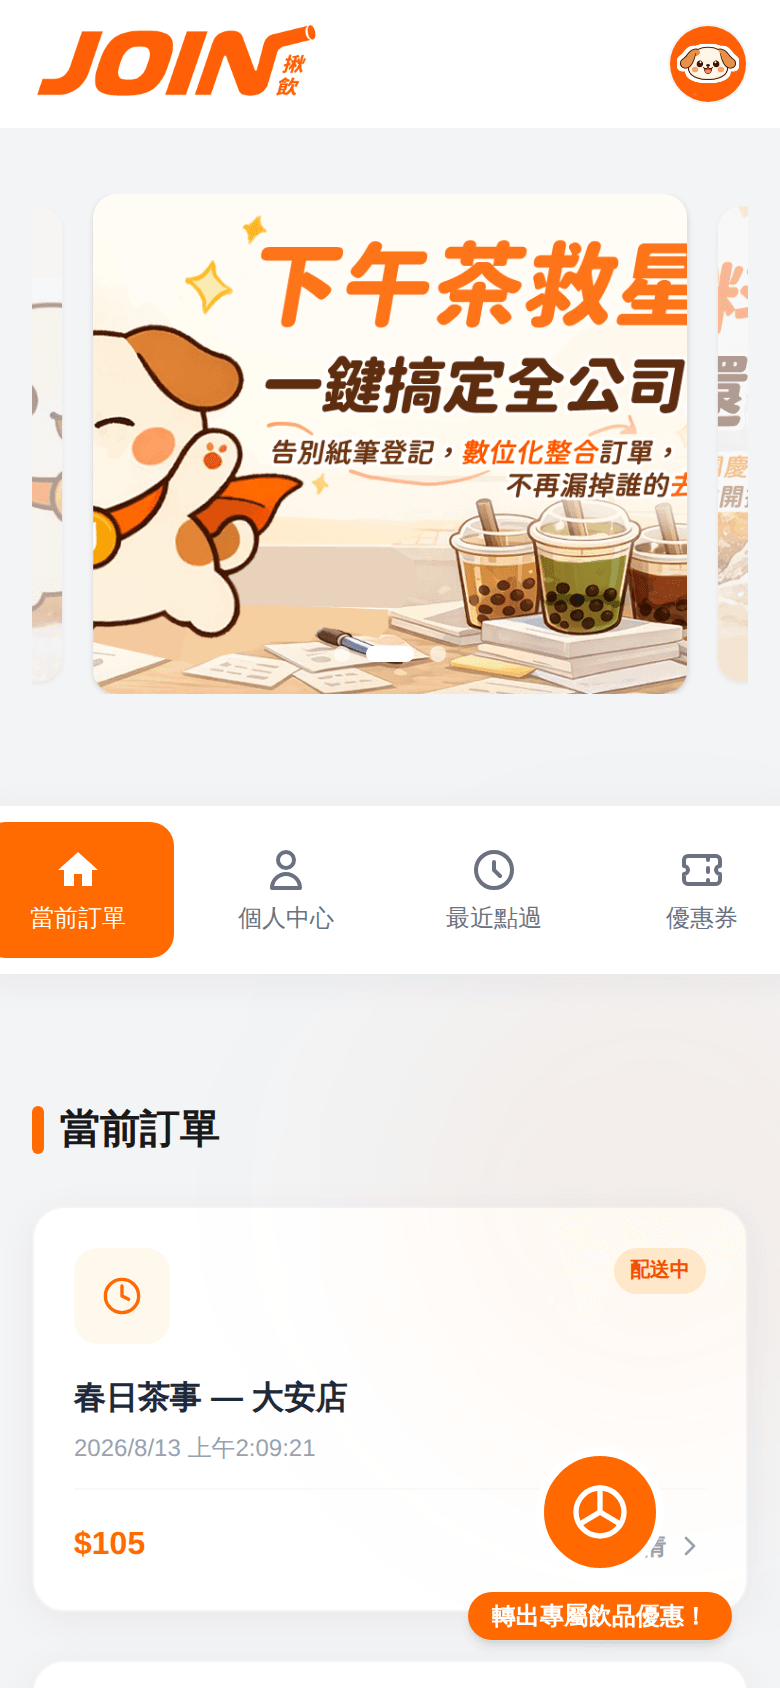
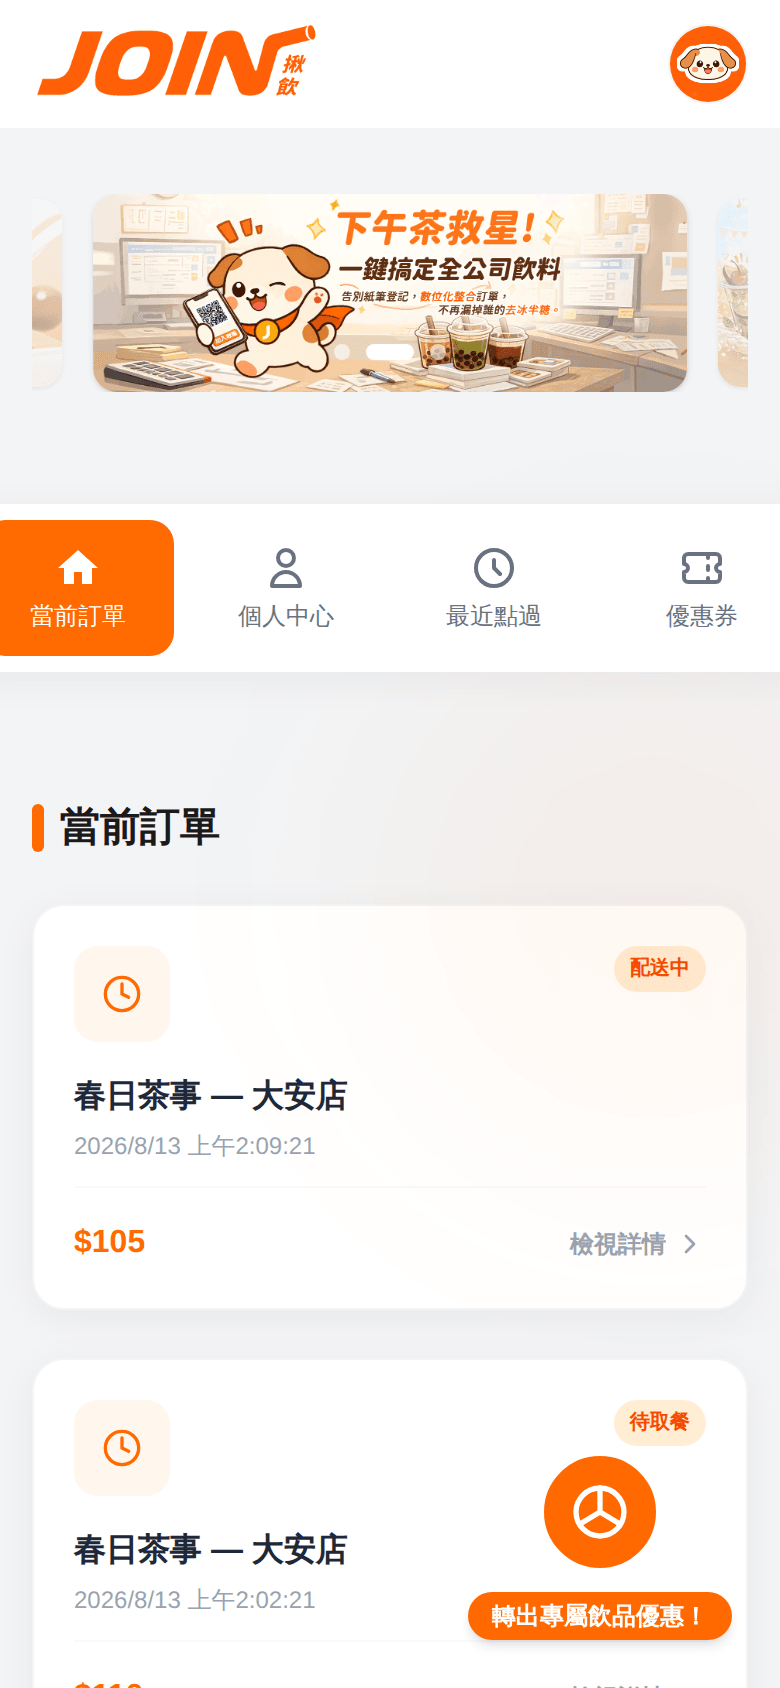
fix: 首頁輪播圖不再被容器裁掉
BN-*.jpg 是約 3:1 的橫幅，但容器高度寫死 h-[250px] md:h-[400px]，
bg-cover 為了蓋滿容器會把左右切掉。實測裁切量：

  手機 390：容器 1.19:1 → 左右裁 59~61%（標語整句看不到）
  桌機 1440：容器 2.68:1 → 左右裁 7~12%

改由長寬比決定高度（.slide-bg { aspect-ratio: 3/1 }），移除寫死的高度。
修補後裁切量降到 ≤4.1%，且只發生在上下——那是因為三張圖的長寬比本身
就不一致（2.88 / 2.90 / 3.05），單一容器比例無法同時完全吻合三張。

長寬比刻意寫在 CSS 而不是用 Tailwind 的 aspect-[3/1]：輪播圖是 JS 動態
注入的，CDN 版 Tailwind 不保證會替它產生規則（實測沒有，高度直接塌成 0）。

Claude-Session: https://claude.ai/code/session_01NowCPswupSUqPGgcQ77haN

diff --git a/frontend/Customer/index.html b/frontend/Customer/index.html
@@ -24,6 +24,15 @@
     }
   </style>
   <style data-purpose="layout-helpers">
+    /* 輪播圖橫幅（BN-*.jpg）長寬比約 3:1。
+       高度一旦寫死，bg-cover 就會把左右裁掉——實測手機裁掉 59~61%、桌機 7~12%，
+       標語整句被切。改由長寬比決定高度，圖就能完整顯示。
+       這條刻意寫在 CSS 而不是用 Tailwind 的 aspect-[3/1]：該工具類是動態注入的，
+       CDN 版 Tailwind 不一定會替它產生規則（實測就沒有，高度直接塌成 0）。 */
+    .slide-bg {
+      aspect-ratio: 3 / 1;
+    }
+
     .card-shadow {
       box-shadow: 0 4px 20px rgba(0, 0, 0, 0.05);
     }
@@ -198,9 +207,11 @@
       <div
         class="hidden w-[85%] opacity-40 opacity-100 scale-[0.95] scale-100 bg-white/60 w-2 hover:bg-white/80 bg-white w-6 bg-transparent">
       </div>
-      <div id="carousel-area" class="relative w-full h-[250px] md:h-[400px] group overflow-hidden cursor-pointer">
+      <!-- 高度不寫死：BN-*.jpg 是約 3:1 的橫幅，固定高度會讓 bg-cover 把左右裁掉
+           （實測手機裁掉 59~61%、桌機 7~12%）。改由 .slide-bg 的 aspect-[3/1] 決定高度。 -->
+      <div id="carousel-area" class="relative w-full group overflow-hidden cursor-pointer">
         <!-- 圖片軌道 (透過 JS 注入內容) -->
-        <div id="carousel-track" class="flex h-full w-full transition-transform duration-500 ease-out"></div>
+        <div id="carousel-track" class="flex w-full transition-transform duration-500 ease-out"></div>
 
         <!-- 左導覽按鈕 (電腦版懸浮顯示) -->
         <button id="prev-btn"
@@ -1551,8 +1562,8 @@
       function initCarousel() {
         // 渲染圖片
         track.innerHTML = slides.map((slide, index) => `
-        <div class="w-[85%] flex-shrink-0 h-full px-1 md:px-2 slide-item" data-index="${index}">
-          <div class="slide-bg w-full h-full bg-center bg-cover bg-no-repeat rounded-xl shadow-sm transition-all duration-500 ease-out"
+        <div class="w-[85%] flex-shrink-0 px-1 md:px-2 slide-item" data-index="${index}">
+          <div class="slide-bg w-full bg-center bg-cover bg-no-repeat rounded-xl shadow-sm transition-all duration-500 ease-out"
                style="background-image: url('${slide}')"
                role="img" aria-label="Slide ${index + 1}">
           </div>
